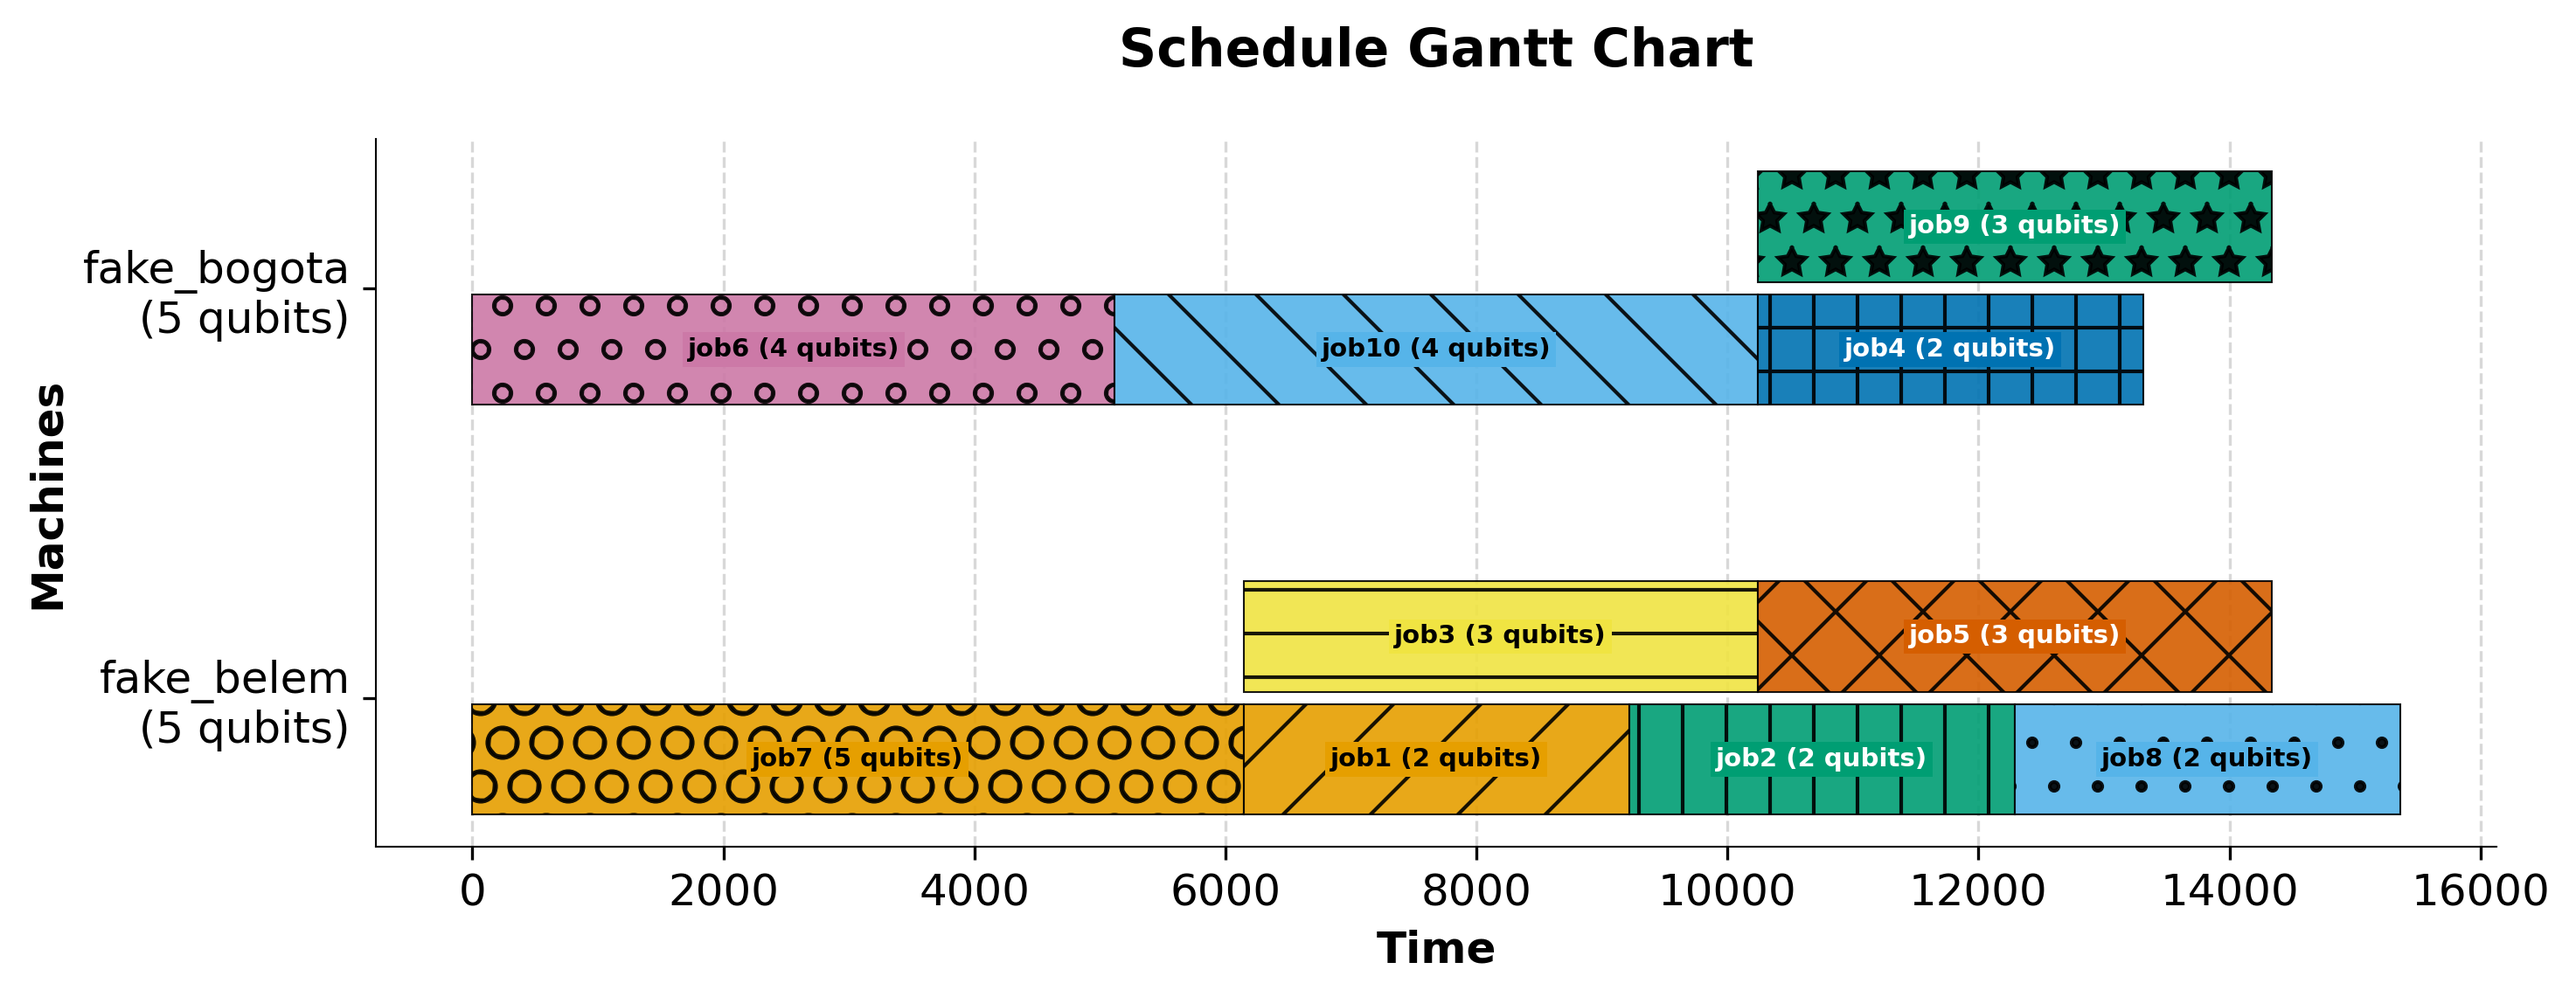
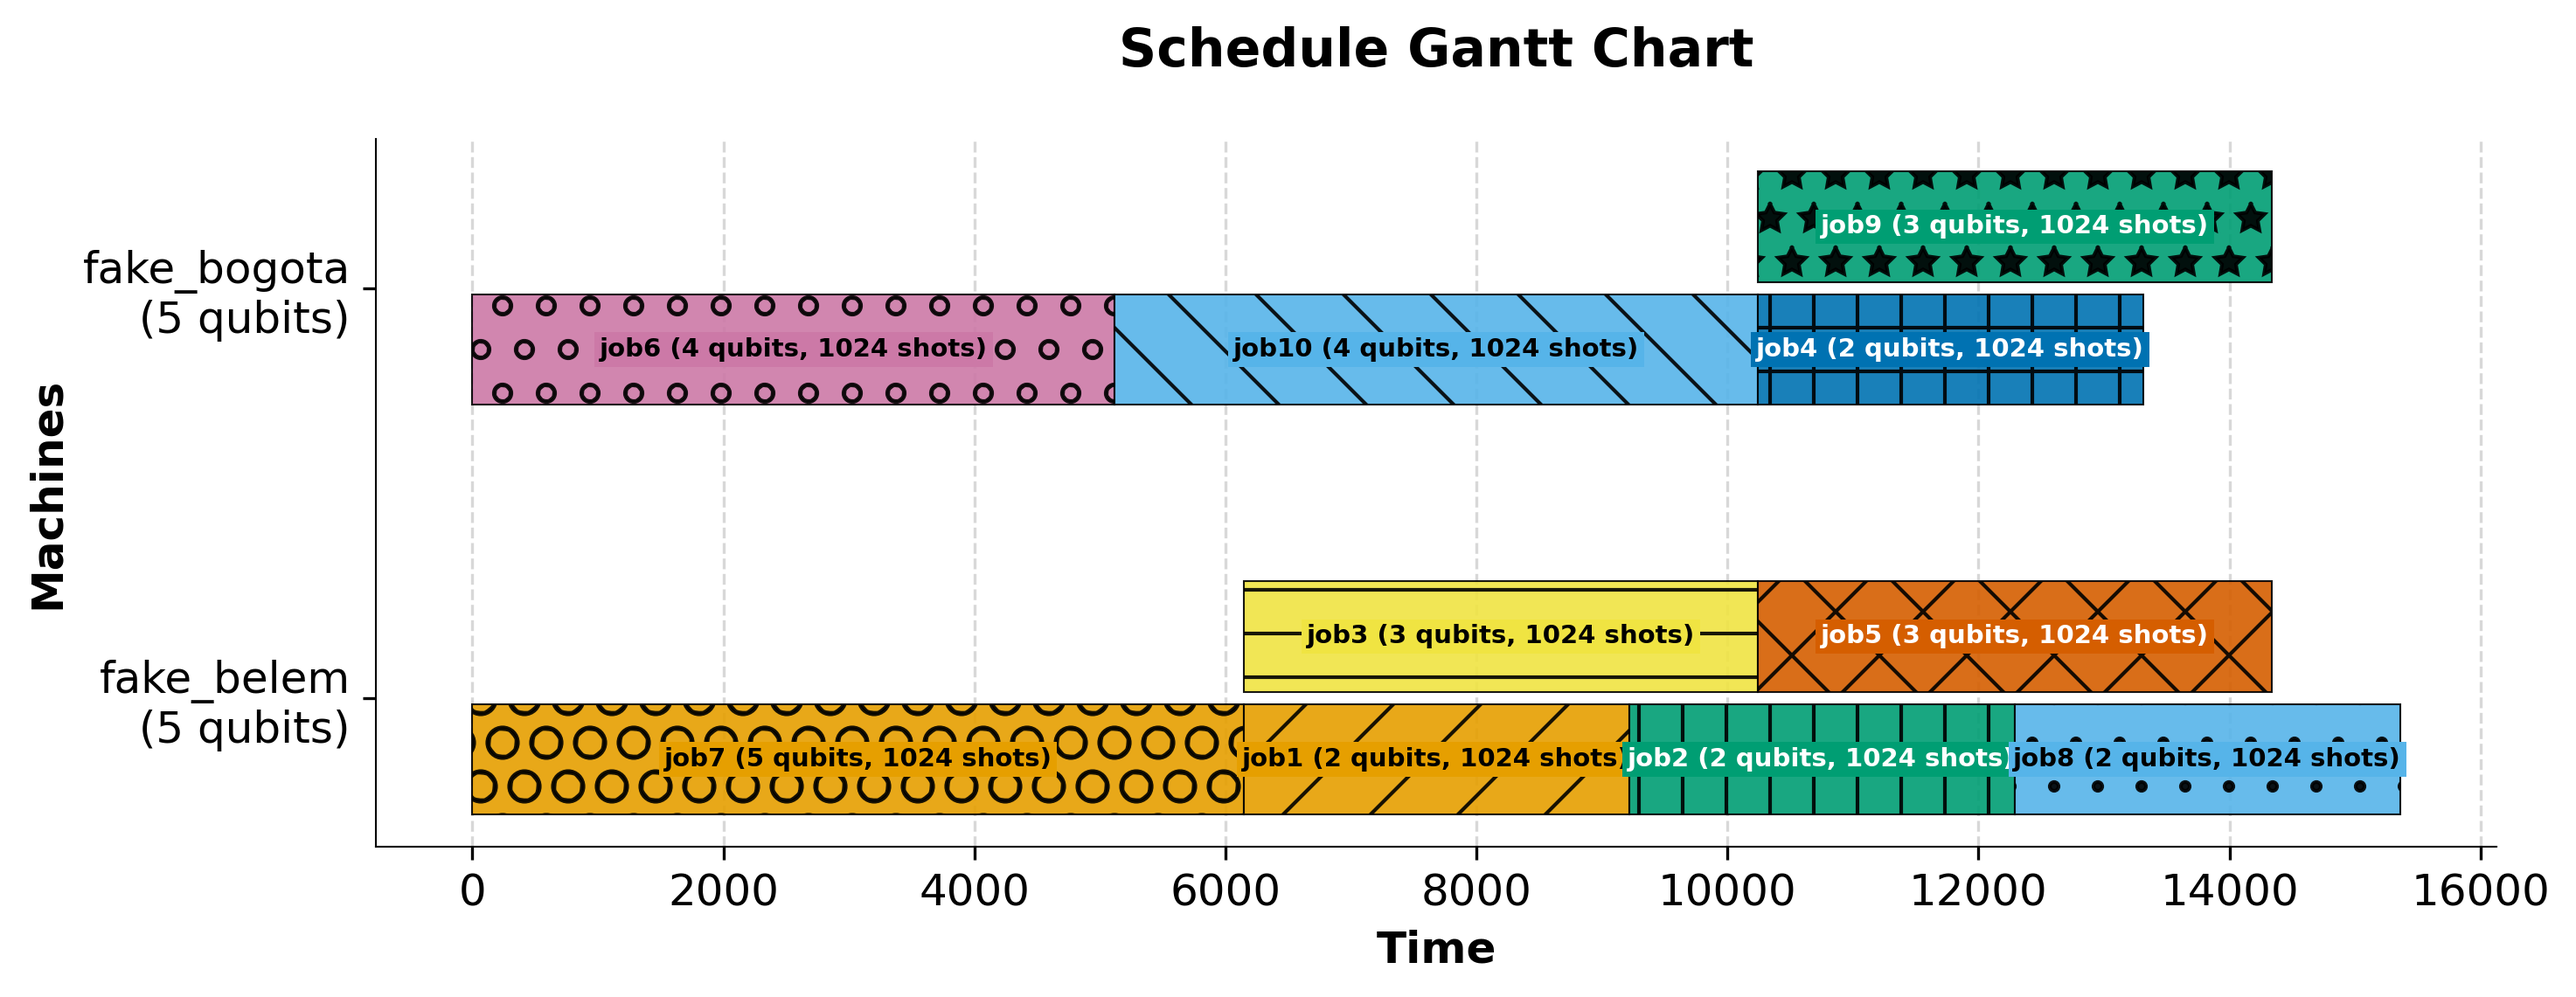
update visualize

diff --git a/component/visualize/gantt_chart.py b/component/visualize/gantt_chart.py
@@ -55,7 +55,14 @@ class GanttChart:
             if duration <= 0: continue
 
             num_qubits = getattr(info, "num_qubits", None)
-            label = f"{name} ({num_qubits} qubits)" if num_qubits is not None else name
+            shots = getattr(info, "shots", None)
+
+            details = []
+            if num_qubits is not None:
+                details.append(f"{num_qubits} qubits")
+            if shots is not None:
+                details.append(f"{shots} shots")
+            label = f"{name} ({', '.join(details)})" if details else name
 
             drawables.append({
                 'y': y_map[assigned],

diff --git a/flow/schedule/post_schedule.py b/flow/schedule/post_schedule.py
@@ -19,6 +19,7 @@ class PostSchedulePhase():
                 scheduled_start_time=job.scheduled_start_time,
                 scheduled_end_time=job.scheduled_end_time,
                 num_qubits=getattr(getattr(job.job_information, "circuit", None), "num_qubits", None),
+                shots=getattr(job.job_information, "shots", None),
             )
             for job_name, job in scheduler_job.items()
         }

diff --git a/flow/execution/post_execution_analysis.py b/flow/execution/post_execution_analysis.py
@@ -136,6 +136,7 @@ class PostExecution:
                 scheduled_start_time=result.start_time,
                 scheduled_end_time=result.end_time,
                 num_qubits=getattr(getattr(result.job_info, "circuit", None), "num_qubits", None),
+                shots=getattr(result.job_info, "shots", None),
             )
             for job_name, result in execution_results.items()
         }
